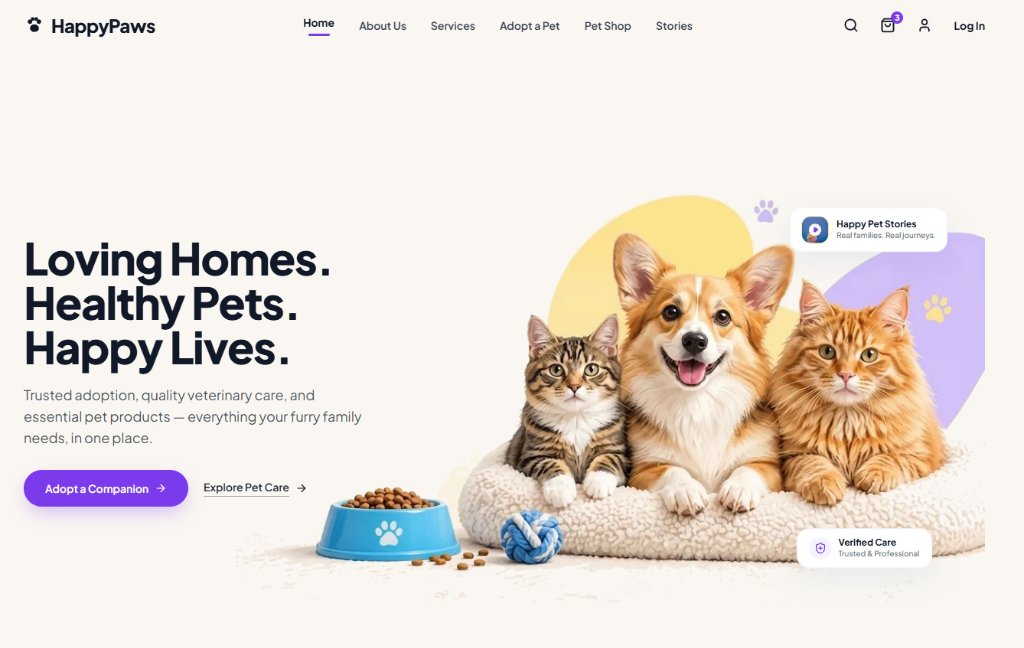
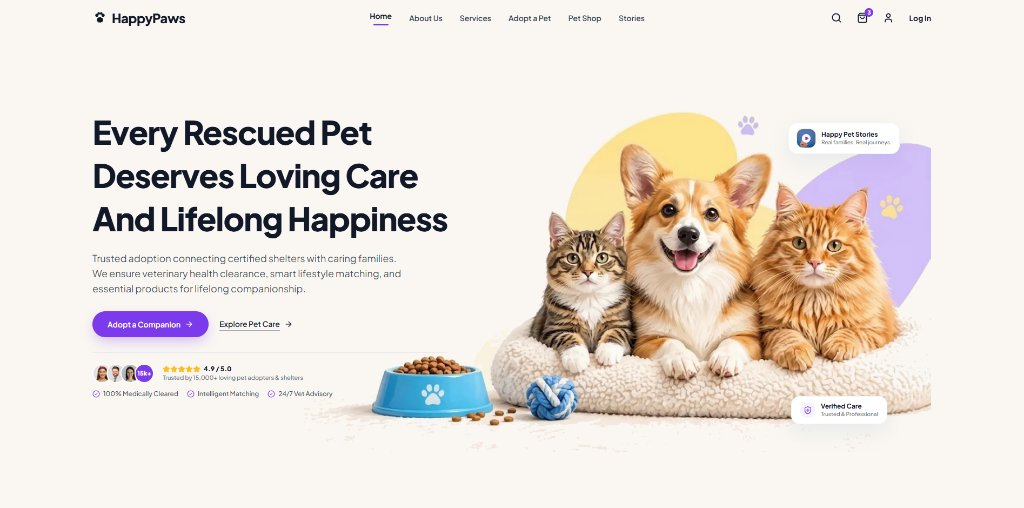
docs(readme): update hero preview screenshot and sync documentation with latest headline and features

diff --git a/src/components/Hero.jsx b/src/components/Hero.jsx
@@ -69,7 +69,7 @@ export default function Hero({ onOpenAdopt, onOpenStory }) {
             <h1 className="text-4xl sm:text-5xl lg:text-[46px] xl:text-[54px] 2xl:text-[60px] font-extrabold text-[#111827] tracking-tight mb-5 sm:mb-6 flex flex-col gap-1 sm:gap-1.5 xl:gap-2">
               <span className="block whitespace-nowrap leading-[1.2]">Every Rescued Pet</span>
               <span className="block whitespace-nowrap leading-[1.2]">Deserves Loving Care</span>
-              <span className="block whitespace-nowrap leading-[1.2]">And Lifelong Happiness.</span>
+              <span className="block whitespace-nowrap leading-[1.2]">And Lifelong Happiness</span>
             </h1>
 
             {/* 3. Rich Subtitle */}
